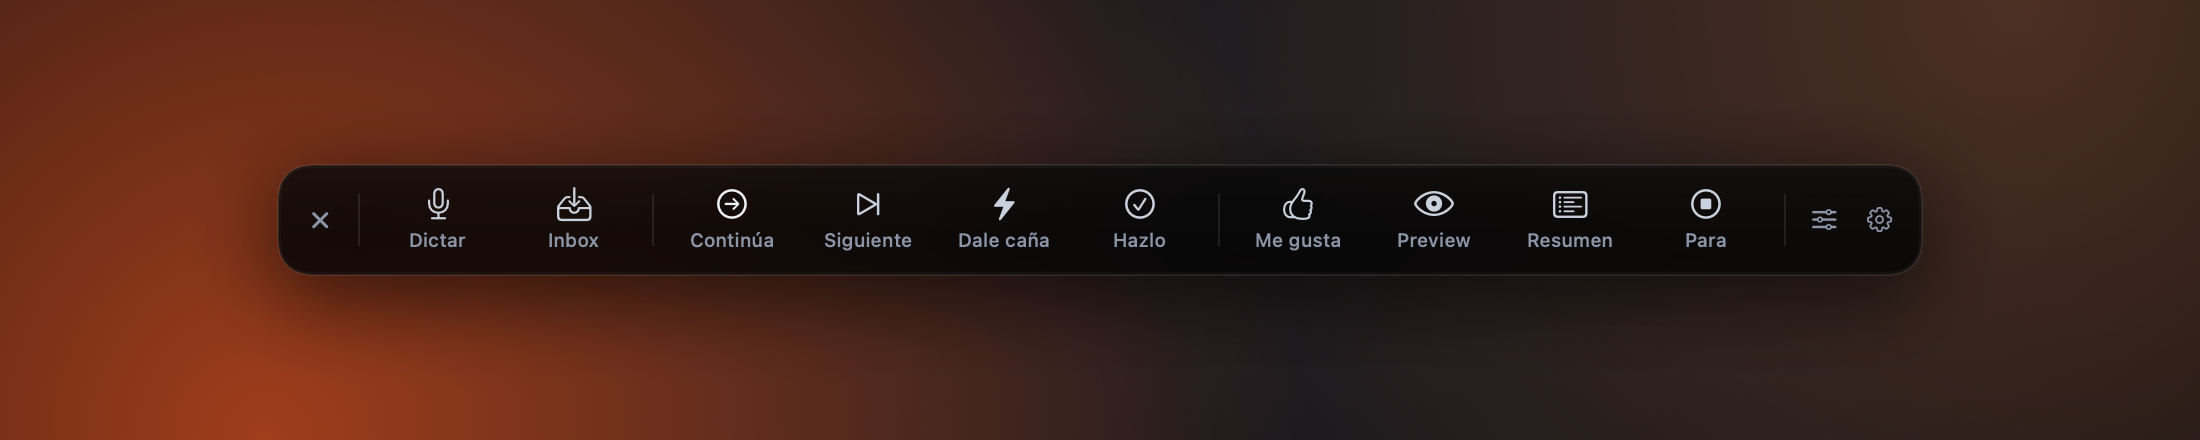
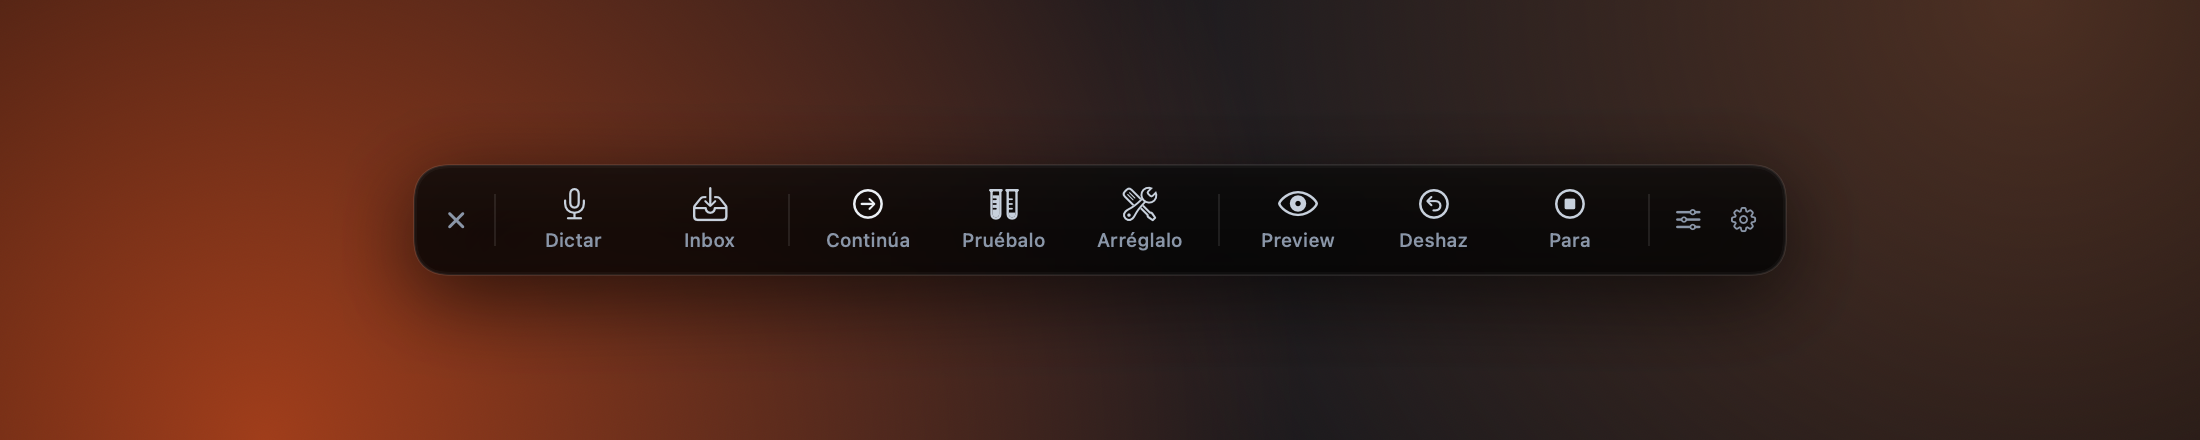
App: el estilo Cristal (el de la web) por defecto, las teclas de fábrica de la demo (Continúa, Pruébalo, Arréglalo, Preview, Deshaz, Para; el micro se llama Hablar) y el orbe se arrastra a cualquier sitio o se lanza a un lateral, donde se esconde asomando un poco; AGENT_DECK_FOLDER para pruebas

diff --git a/Sources/FloatingPanel.swift b/Sources/FloatingPanel.swift
@@ -11,6 +11,14 @@ final class FloatingPanel: NSPanel {
     private let host: NSHostingView<DeskRoot>
     private var bag = Set<AnyCancellable>()
     private let anchorKey = "AgentDeskAnchor" // "x y" del centro inferior, en coordenadas de pantalla
+    private let edgeKey = "AgentDeskEdge"     // "left" o "right": el orbe escondido en ese lateral
+    /// Arrastre del orbe a mano: el orbe es un botón y se quedaría el clic, así que el panel lo mueve él.
+    private var dragFrom: NSPoint?
+    private var frameFrom: NSRect = .zero
+    private var dragging = false
+    private var samples: [(t: TimeInterval, p: NSPoint)] = []
+    /// Lo que asoma del orbe escondido en un lateral.
+    private let peek: CGFloat = 14
 
     init(store: DeskStore) {
         self.store = store
@@ -49,6 +57,57 @@ final class FloatingPanel: NSPanel {
         }
     }
 
+    private var orbMode: Bool { store.mode == .dock && store.collapsed }
+
+    private var edge: String? {
+        get { UserDefaults.standard.string(forKey: edgeKey) }
+        set { UserDefaults.standard.set(newValue, forKey: edgeKey) }
+    }
+
+    /// Con la barra plegada: arrastrar mueve el orbe a cualquier sitio; lanzarlo hacia un lado (o soltarlo
+    /// pegado al borde) lo esconde en ese lateral, asomando un poco. Un clic sin arrastrar lo despliega, como siempre.
+    override func sendEvent(_ e: NSEvent) {
+        guard orbMode else { super.sendEvent(e); return }
+        switch e.type {
+        case .leftMouseDown:
+            dragFrom = NSEvent.mouseLocation; frameFrom = frame; dragging = false; samples = []
+            super.sendEvent(e)
+        case .leftMouseDragged:
+            guard let from = dragFrom else { super.sendEvent(e); return }
+            let p = NSEvent.mouseLocation
+            if !dragging, hypot(p.x - from.x, p.y - from.y) > 4 {
+                dragging = true
+                // el botón del orbe suelta el clic fuera de sí mismo: no se despliega al acabar el arrastre
+                if let up = NSEvent.mouseEvent(with: .leftMouseUp, location: NSPoint(x: -10_000, y: -10_000), modifierFlags: [],
+                                               timestamp: e.timestamp, windowNumber: windowNumber, context: nil,
+                                               eventNumber: e.eventNumber, clickCount: 1, pressure: 0) { super.sendEvent(up) }
+            }
+            guard dragging else { super.sendEvent(e); return }
+            setFrameOrigin(NSPoint(x: frameFrom.minX + p.x - from.x, y: frameFrom.minY + p.y - from.y))
+            samples.append((e.timestamp, p)); if samples.count > 6 { samples.removeFirst() }
+        case .leftMouseUp:
+            dragFrom = nil
+            guard dragging else { super.sendEvent(e); return }
+            dragging = false
+            fling()
+        default:
+            super.sendEvent(e)
+        }
+    }
+
+    /// Al soltar: velocidad horizontal de los últimos movimientos y adónde llegaría el orbe con ella.
+    private func fling() {
+        var vx: CGFloat = 0
+        if let a = samples.first, let b = samples.last, b.t > a.t { vx = (b.p.x - a.p.x) / CGFloat(b.t - a.t) }
+        let screen = NSScreen.screens.first { $0.frame.contains(NSPoint(x: frame.midX, y: frame.midY)) } ?? screenUnderMouse
+        let v = screen.visibleFrame
+        let landing = frame.midX + vx * 0.2
+        if vx < -900 || landing < v.minX + 30 { edge = "left" }
+        else if vx > 900 || landing > v.maxX - 30 { edge = "right" }
+        else { edge = nil }
+        relayout(animated: true, recenter: false, anchor: NSPoint(x: frame.midX, y: frame.minY))
+    }
+
     override var canBecomeKey: Bool { true }
     override var canBecomeMain: Bool { false }
 
@@ -68,12 +127,15 @@ final class FloatingPanel: NSPanel {
         return parts.count == 2 ? NSPoint(x: parts[0], y: parts[1]) : nil
     }
 
-    func relayout(animated: Bool, recenter: Bool) {
+    func relayout(animated: Bool, recenter: Bool, anchor dropped: NSPoint? = nil) {
         host.rootView = DeskRoot(store: store)
         host.layoutSubtreeIfNeeded()
         let size = host.fittingSize
         var anchor: NSPoint
-        if recenter || savedAnchor == nil {
+        if !orbMode { edge = nil } // al desplegarse, la barra vuelve entera a la pantalla
+        if let dropped = dropped {
+            anchor = dropped
+        } else if recenter || savedAnchor == nil {
             let v = screenUnderMouse.visibleFrame
             anchor = NSPoint(x: v.midX, y: v.minY + 2)
         } else if isVisible, let saved = savedAnchor {
@@ -87,9 +149,15 @@ final class FloatingPanel: NSPanel {
         let v = screen.visibleFrame
         target.origin.x = min(max(target.origin.x, v.minX - 20), v.maxX - target.width + 20)
         target.origin.y = min(max(target.origin.y, v.minY - 10), v.maxY - target.height + 30)
+        if orbMode, !store.listening, let side = edge { // dictando, la cápsula sale entera para leer lo que oye
+            // el orbe mide su anchura menos el margen de la sombra (30 a cada lado, DockView)
+            let orb = max(size.width - 60, 30)
+            let mid = side == "left" ? v.minX - orb / 2 + peek : v.maxX + orb / 2 - peek
+            target.origin.x = mid - size.width / 2
+        }
         if animated {
             NSAnimationContext.runAnimationGroup { ctx in
-                ctx.duration = 0.32
+                ctx.duration = dropped != nil ? 0.38 : 0.32
                 ctx.timingFunction = CAMediaTimingFunction(controlPoints: 0.2, 0.9, 0.25, 1)
                 self.animator().setFrame(target, display: true)
             }

diff --git a/Sources/DeskModel.swift b/Sources/DeskModel.swift
@@ -33,7 +33,7 @@ struct DeskKey: Codable, Identifiable, Equatable {
 let deskIcons: [String] = [
     "arrow.right.circle", "forward.end", "bolt.fill", "checkmark.circle", "hand.thumbsup", "eye",
     "list.bullet.rectangle", "stop.circle", "arrow.counterclockwise", "questionmark.circle", "wand.and.stars",
-    "doc.text.magnifyingglass", "hammer", "paperplane", "flag", "lightbulb", "scissors", "pencil", "text.quote", "sparkles",
+    "doc.text.magnifyingglass", "hammer", "testtube.2", "wrench.and.screwdriver", "arrow.uturn.backward.circle", "paperplane", "flag", "lightbulb", "scissors", "pencil", "text.quote", "sparkles",
 ]
 
 /// Cómo se presenta el Desk: una barra pegada al borde inferior (dock) o una tarjeta flotante.
@@ -73,6 +73,8 @@ final class DeskStore: ObservableObject {
     @Published var pulse: Int = 0
 
     static let folder: URL = {
+        // pruebas y capturas: una carpeta aparte, nunca las teclas de verdad
+        if let test = ProcessInfo.processInfo.environment["AGENT_DECK_FOLDER"], !test.isEmpty { return URL(fileURLWithPath: test, isDirectory: true) }
         let base = FileManager.default.urls(for: .applicationSupportDirectory, in: .userDomainMask)[0]
         let new = base.appendingPathComponent("Agent Deck", isDirectory: true)
         let old = base.appendingPathComponent("Agent Desk", isDirectory: true)
@@ -83,24 +85,21 @@ final class DeskStore: ObservableObject {
     }()
     static let file = folder.appendingPathComponent("keys.json")
 
+    /// Las teclas de fábrica: seis cosas distintas que se le dicen a un agente (como en getagentbar.com).
     static let defaults: [DeskKey] = T.es ? [
         DeskKey(label: "Continúa", text: "continúa", hotkey: 1, icon: "arrow.right.circle", group: "flujo"),
-        DeskKey(label: "Siguiente", text: "siguiente", hotkey: 2, icon: "forward.end", group: "flujo"),
-        DeskKey(label: "Dale caña", text: "dale caña", hotkey: 3, icon: "bolt.fill", group: "flujo"),
-        DeskKey(label: "Hazlo", text: "hazlo", hotkey: 4, icon: "checkmark.circle", group: "flujo"),
-        DeskKey(label: "Me gusta", text: "me gusta, continúa", hotkey: 5, icon: "hand.thumbsup", group: "control"),
-        DeskKey(label: "Preview", text: "enséñame una preview antes de seguir", hotkey: 6, icon: "eye", group: "control"),
-        DeskKey(label: "Resumen", text: "resumen corto: dónde estamos y qué falta", hotkey: 7, icon: "list.bullet.rectangle", group: "control"),
-        DeskKey(label: "Para", text: "para, no sigas con eso", hotkey: 8, icon: "stop.circle", group: "control"),
+        DeskKey(label: "Pruébalo", text: "pasa los tests y dime qué falla", hotkey: 2, icon: "testtube.2", group: "flujo"),
+        DeskKey(label: "Arréglalo", text: "arregla esos errores y sigue", hotkey: 3, icon: "wrench.and.screwdriver", group: "flujo"),
+        DeskKey(label: "Preview", text: "enséñame una preview antes de seguir", hotkey: 4, icon: "eye", group: "control"),
+        DeskKey(label: "Deshaz", text: "deshaz el último cambio", hotkey: 5, icon: "arrow.uturn.backward.circle", group: "control"),
+        DeskKey(label: "Para", text: "para, no sigas con eso", hotkey: 6, icon: "stop.circle", group: "control"),
     ] : [
         DeskKey(label: "Continue", text: "continue", hotkey: 1, icon: "arrow.right.circle", group: "flujo"),
-        DeskKey(label: "Next", text: "next", hotkey: 2, icon: "forward.end", group: "flujo"),
-        DeskKey(label: "Go hard", text: "go hard", hotkey: 3, icon: "bolt.fill", group: "flujo"),
-        DeskKey(label: "Do it", text: "do it", hotkey: 4, icon: "checkmark.circle", group: "flujo"),
-        DeskKey(label: "I like it", text: "I like it, continue", hotkey: 5, icon: "hand.thumbsup", group: "control"),
-        DeskKey(label: "Preview", text: "show me a preview before you go on", hotkey: 6, icon: "eye", group: "control"),
-        DeskKey(label: "Recap", text: "short recap: where are we and what's left", hotkey: 7, icon: "list.bullet.rectangle", group: "control"),
-        DeskKey(label: "Stop", text: "stop, don't go on with that", hotkey: 8, icon: "stop.circle", group: "control"),
+        DeskKey(label: "Test it", text: "run the tests and tell me what fails", hotkey: 2, icon: "testtube.2", group: "flujo"),
+        DeskKey(label: "Fix it", text: "fix those errors, then continue", hotkey: 3, icon: "wrench.and.screwdriver", group: "flujo"),
+        DeskKey(label: "Preview", text: "show me a preview before you go on", hotkey: 4, icon: "eye", group: "control"),
+        DeskKey(label: "Undo", text: "undo that last change", hotkey: 5, icon: "arrow.uturn.backward.circle", group: "control"),
+        DeskKey(label: "Stop", text: "stop, don't go on with that", hotkey: 6, icon: "stop.circle", group: "control"),
     ]
 
     init() {
@@ -116,7 +115,7 @@ final class DeskStore: ObservableObject {
         }
         mode = DeskMode(rawValue: UserDefaults.standard.string(forKey: "mode") ?? "") ?? .dock
         collapsed = UserDefaults.standard.bool(forKey: "collapsed")
-        style = BarStyle(rawValue: UserDefaults.standard.string(forKey: "style") ?? "") ?? .classic
+        style = BarStyle(rawValue: UserDefaults.standard.string(forKey: "style") ?? "") ?? .glass
     }
 
     static func haptic(_ kind: NSHapticFeedbackManager.FeedbackPattern = .alignment) {

diff --git a/Sources/DeskView.swift b/Sources/DeskView.swift
@@ -496,7 +496,7 @@ struct DictateItem: View {
                         .contentTransition(.symbolEffect(.replace))
                 }
                 .frame(width: 40, height: 17)
-                Text(store.listening ? (store.partial.isEmpty ? T.s("Listening…", "Escuchando…") : store.partial) : (store.dictationNote.isEmpty ? T.s("Dictate", "Dictar") : store.dictationNote))
+                Text(store.listening ? (store.partial.isEmpty ? T.s("Listening…", "Escuchando…") : store.partial) : (store.dictationNote.isEmpty ? T.s("Talk", "Hablar") : store.dictationNote))
                     .font(.system(size: 9.5, weight: .medium))
                     .foregroundColor(store.listening ? th.accent : (hover ? th.ink : th.mute))
                     .lineLimit(1)
